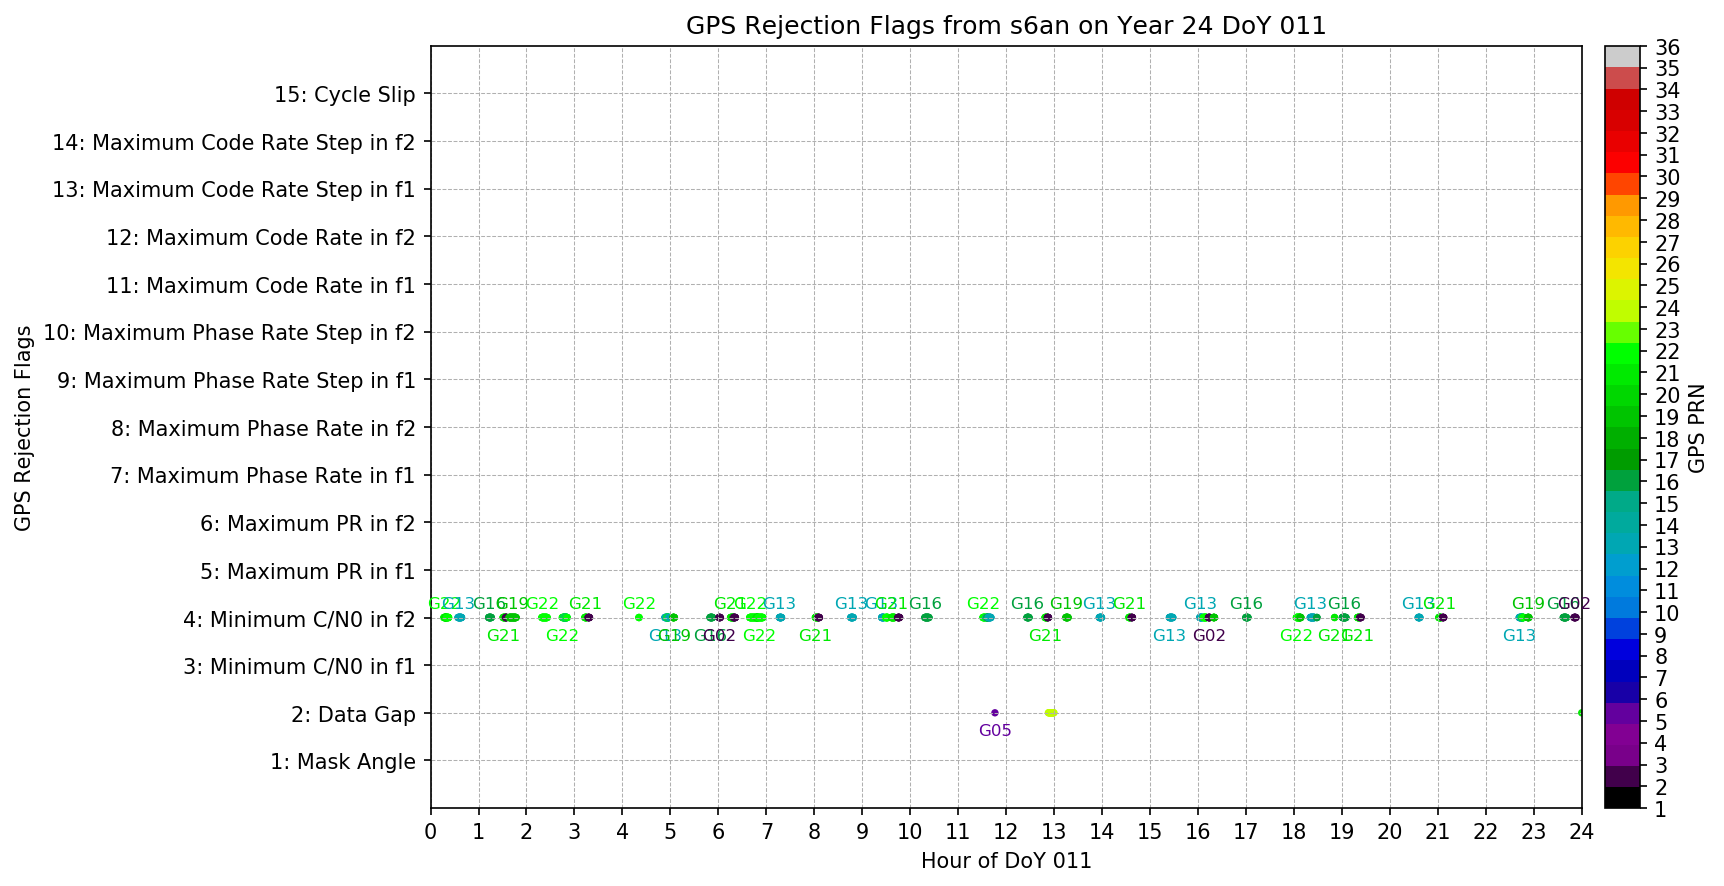
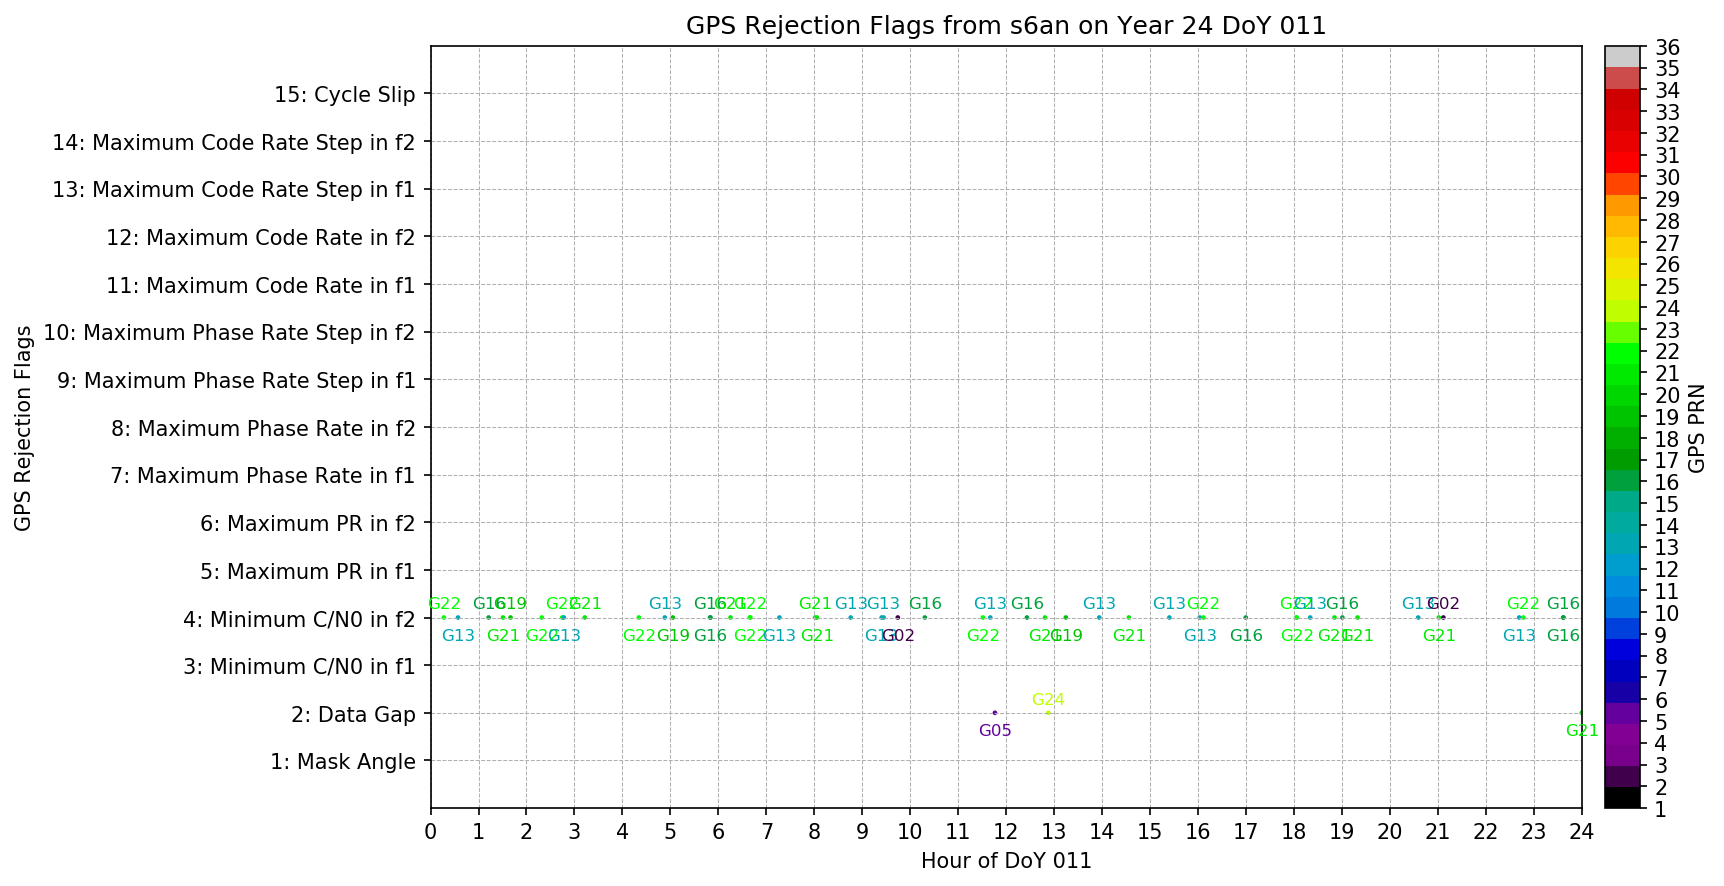
add(PreprocessingPlots.py, plot rejection flags, separated data in epochs of 1000s)

Changed region(s): [[0.2459, 0.6704, 0.5226, 0.7314], [0.5534, 0.6704, 0.7993, 0.7314], [0.83, 0.6704, 0.9223, 0.7314]]

diff --git a/SRC/PreprocessingPlots.py b/SRC/PreprocessingPlots.py
@@ -552,6 +552,14 @@ def plotRejectionFlags(PreproObsFile, PreproObsData):
     PreproObsDataGalileo = PreproObsData[(PreproObsData[PreproIdx["PRN"]].str.startswith("E") & (PreproObsData[PreproIdx["REJECT"]] != 0))]
     PreproObsDataGPS =     PreproObsData[(PreproObsData[PreproIdx["PRN"]].str.startswith("G") & (PreproObsData[PreproIdx["REJECT"]] != 0))]
 
+    # Aggregate data by 1000s intervals
+    interval = 1000  # seconds
+    PreproObsDataGalileo['Interval'] = (PreproObsDataGalileo[PreproIdx["SOD"]] // interval) * interval
+    aggregated_dataGalileo = PreproObsDataGalileo.groupby('Interval').apply(lambda x: x.drop_duplicates(subset=[PreproIdx["REJECT"]]))
+
+    PreproObsDataGPS['Interval'] = (PreproObsDataGPS[PreproIdx["SOD"]] // interval) * interval
+    aggregated_dataGPS = PreproObsDataGPS.groupby('Interval').apply(lambda x: x.drop_duplicates(subset=[PreproIdx["REJECT"]]))
+
     PlotConfGalileo = {
         "Type": "Lines",
         "FigSize" : (10.4, 6.6),
@@ -578,14 +586,14 @@ def plotRejectionFlags(PreproObsFile, PreproObsData):
         "ColorBarSetTicks": sorted(gal_prn),
         "ColorBarBins": len(gal_prn), 
 
-        "s" : 50, 
+        "s" : 20, 
         "Label" : 0,
         
-        "Annotations": {0: PreproObsDataGalileo[PreproIdx["PRN"]]},
+        "Annotations": {0: aggregated_dataGalileo[PreproIdx["PRN"]]},
 
-        "xData": {0: PreproObsDataGalileo[PreproIdx["SOD"]] / GnssConstants.S_IN_H},
-        "yData": {0: PreproObsDataGalileo[PreproIdx["REJECT"]]},
-        "zData" : {0: [int(convert_satlabel_to_prn(prn)) for prn in PreproObsDataGalileo[PreproIdx["PRN"]]]}, 
+        "xData": {0: aggregated_dataGalileo[PreproIdx["SOD"]] / GnssConstants.S_IN_H},
+        "yData": {0: aggregated_dataGalileo[PreproIdx["REJECT"]]},
+        "zData" : {0: [int(convert_satlabel_to_prn(prn)) for prn in aggregated_dataGalileo[PreproIdx["PRN"]]]}, 
 
         "Path": sys.argv[1] + '/OUT/PPVE/SAT/' + 'GAL_REJECTION_FLAGS_s6an_D011Y24.png',
     }
@@ -616,14 +624,14 @@ def plotRejectionFlags(PreproObsFile, PreproObsData):
         "ColorBarSetTicks": sorted(gps_prn),
         "ColorBarBins": len(gps_prn), 
 
-        "s" : 50, 
+        "s" : 20, 
         "Label" : 0,
         
-        "Annotations": {0: PreproObsDataGPS[PreproIdx["PRN"]]},
+        "Annotations": {0: aggregated_dataGPS[PreproIdx["PRN"]]},
 
-        "xData": {0: PreproObsDataGPS[PreproIdx["SOD"]] / GnssConstants.S_IN_H},
-        "yData": {0: PreproObsDataGPS[PreproIdx["REJECT"]]},
-        "zData" : {0: [int(convert_satlabel_to_prn(prn)) for prn in PreproObsDataGPS[PreproIdx["PRN"]]]}, 
+        "xData": {0: aggregated_dataGPS[PreproIdx["SOD"]] / GnssConstants.S_IN_H},
+        "yData": {0: aggregated_dataGPS[PreproIdx["REJECT"]]},
+        "zData" : {0: [int(convert_satlabel_to_prn(prn)) for prn in aggregated_dataGPS[PreproIdx["PRN"]]]}, 
 
         "Path": sys.argv[1] + '/OUT/PPVE/SAT/' + 'GPS_REJECTION_FLAGS_s6an_D011Y24.png',
     }

diff --git a/SRC/COMMON/Plots.py b/SRC/COMMON/Plots.py
@@ -274,17 +274,19 @@ def generateLinesPlot(PlotConf):
                         else:
                             offset = -5
                         
-                        if x_data[i] > prev_x_data_point +700 / S_IN_H:
-                            ax.annotate(text, 
-                                            (x_data[i], y_data[i]), 
-                                            fontsize=8, 
-                                            ha='center', 
-                                            va="top",  
-                                            color=text_color, 
-                                            xytext=(0, offset), 
-                                            textcoords='offset points')
+                        # if x_data[i] > prev_x_data_point +700 / S_IN_H:
+                        ax.annotate(text, 
+                                        (x_data[i], y_data[i]), 
+                                        fontsize=8, 
+                                        ha='center', 
+                                        va="top",  
+                                        color=text_color, 
+                                        xytext=(0, offset), 
+                                        textcoords='offset points',
+                                        # bbox=dict(boxstyle='round,pad=0.3', edgecolor=(0, 0, 0, 0), facecolor='white')
+                                        )
                             
-                            prev_x_data_point = x_data[i]
+                            # prev_x_data_point = x_data[i]
                         
                 else:
                     pass
